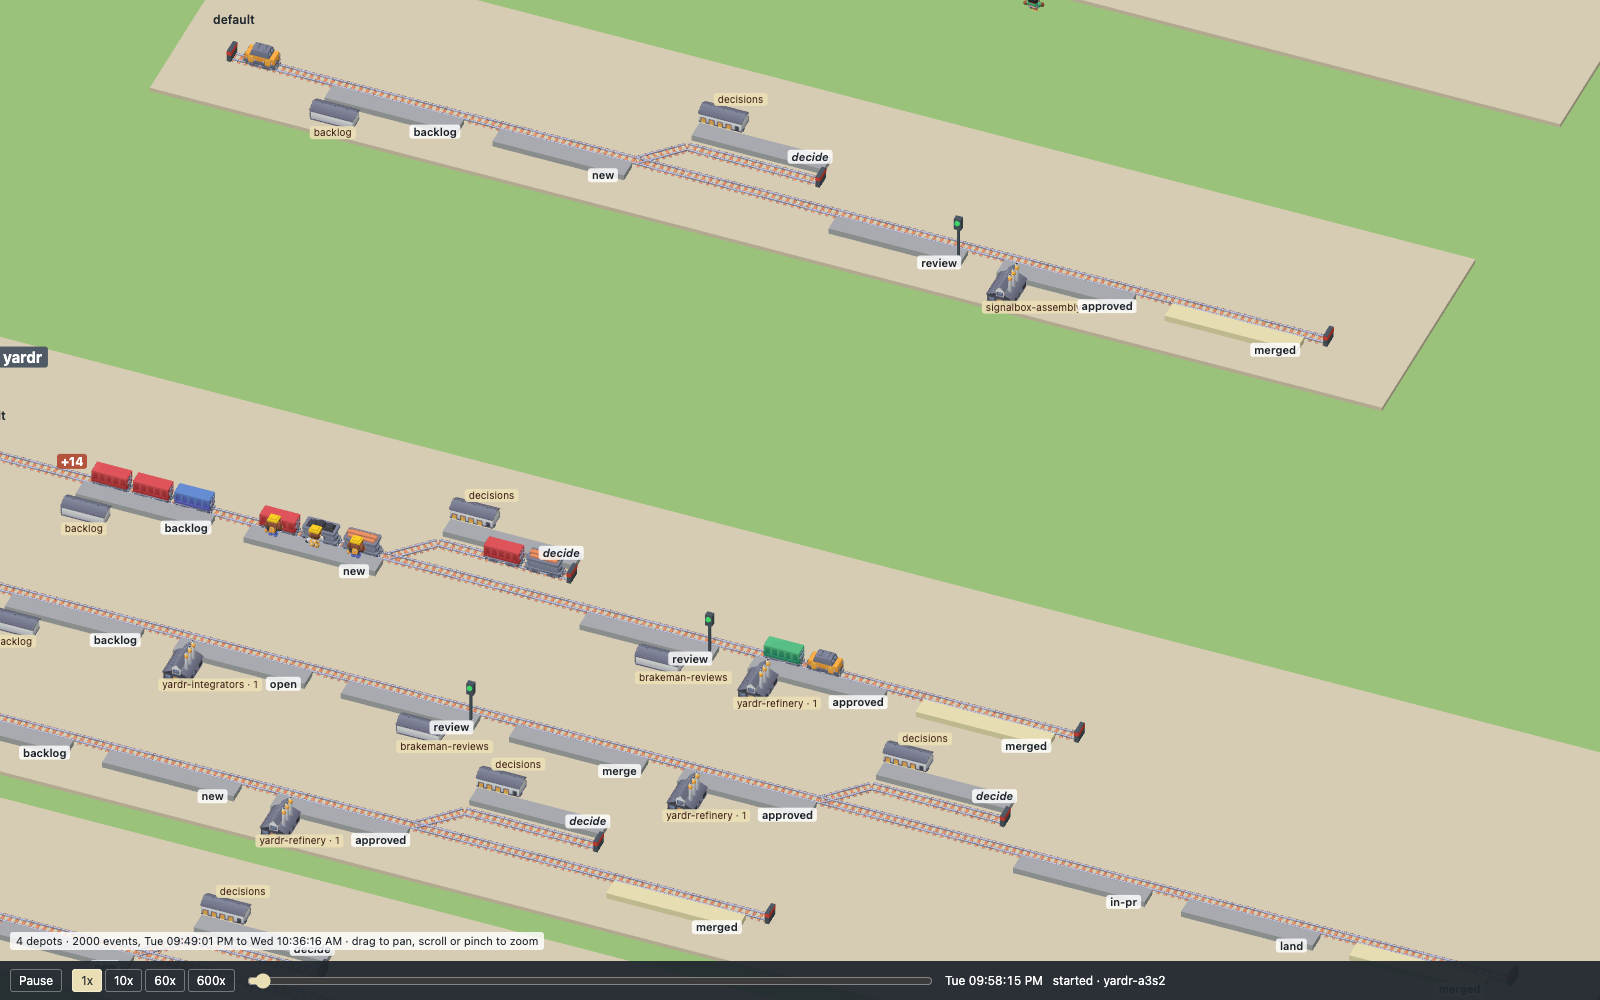
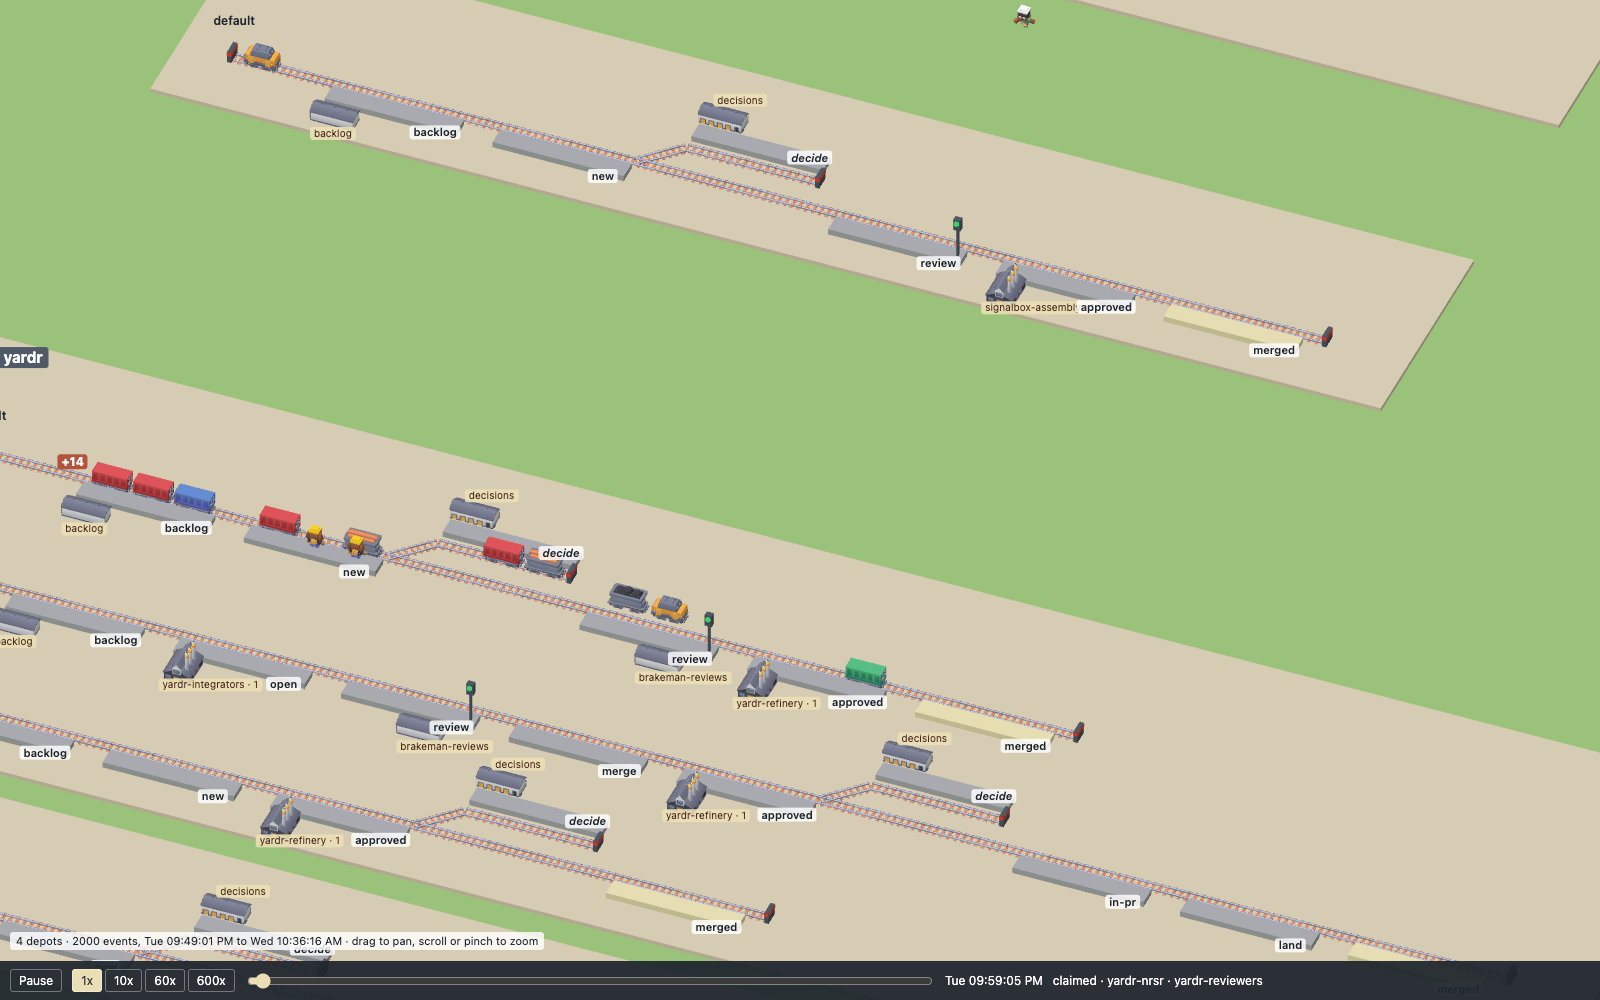
docs: the README's pictures retaken with the shunters, and yard-close.png gone
replay.png is the built page at 1x, mid-pull on yardr's default track (new to
review) with a reviewer walking to the wagon; yard.png and live.png were from
before the shunters. Sizes and views as before. Nothing referenced
yard-close.png.

diff --git a/README.md b/README.md
@@ -82,7 +82,7 @@ come behind an engine of the peer's, which goes home when they have gone.
 One train runs each way at a time, and the next waits out of sight. A hook
 is a flash of the wire.
 
-![Mid-replay: the shunter of yardr's default track pulling a wagon from review to approved](docs/replay.png)
+![Mid-replay: the shunter of yardr's default track pulling a wagon from new to review, two builders at work at new, and a reviewer on the way down from the office to the wagon](docs/replay.png)
 
 ## Following a yard as it runs
 
